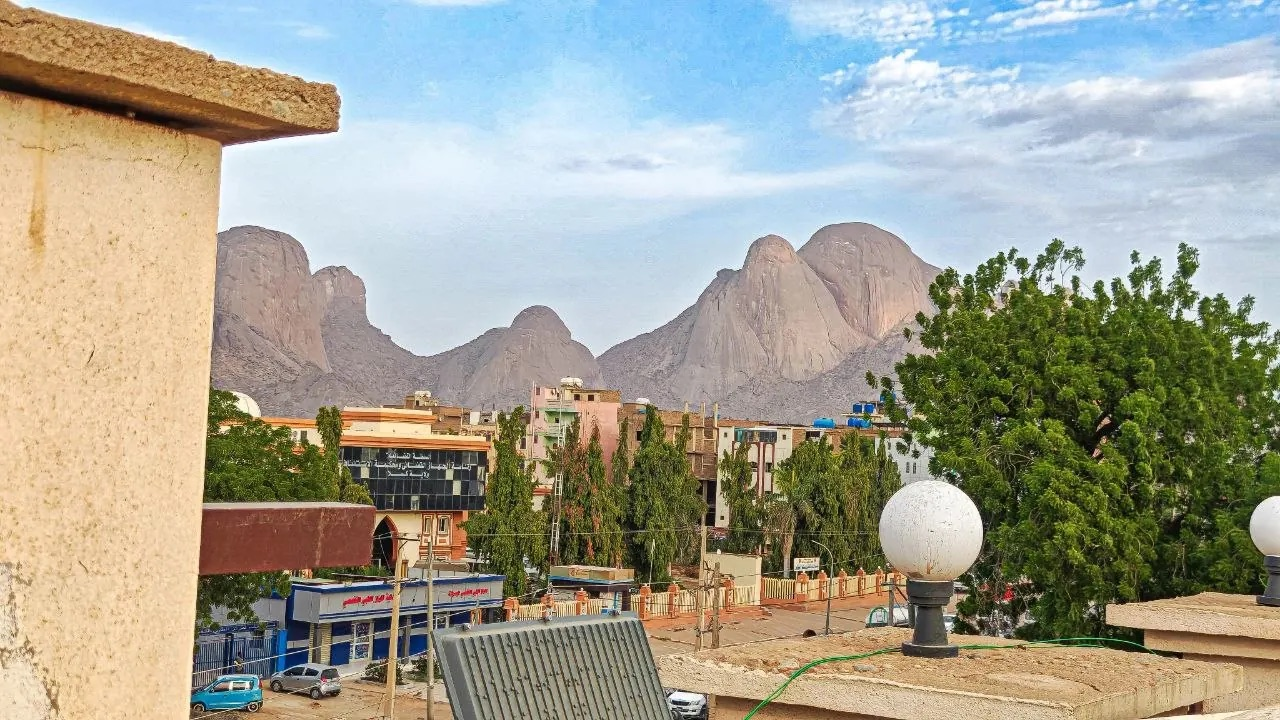
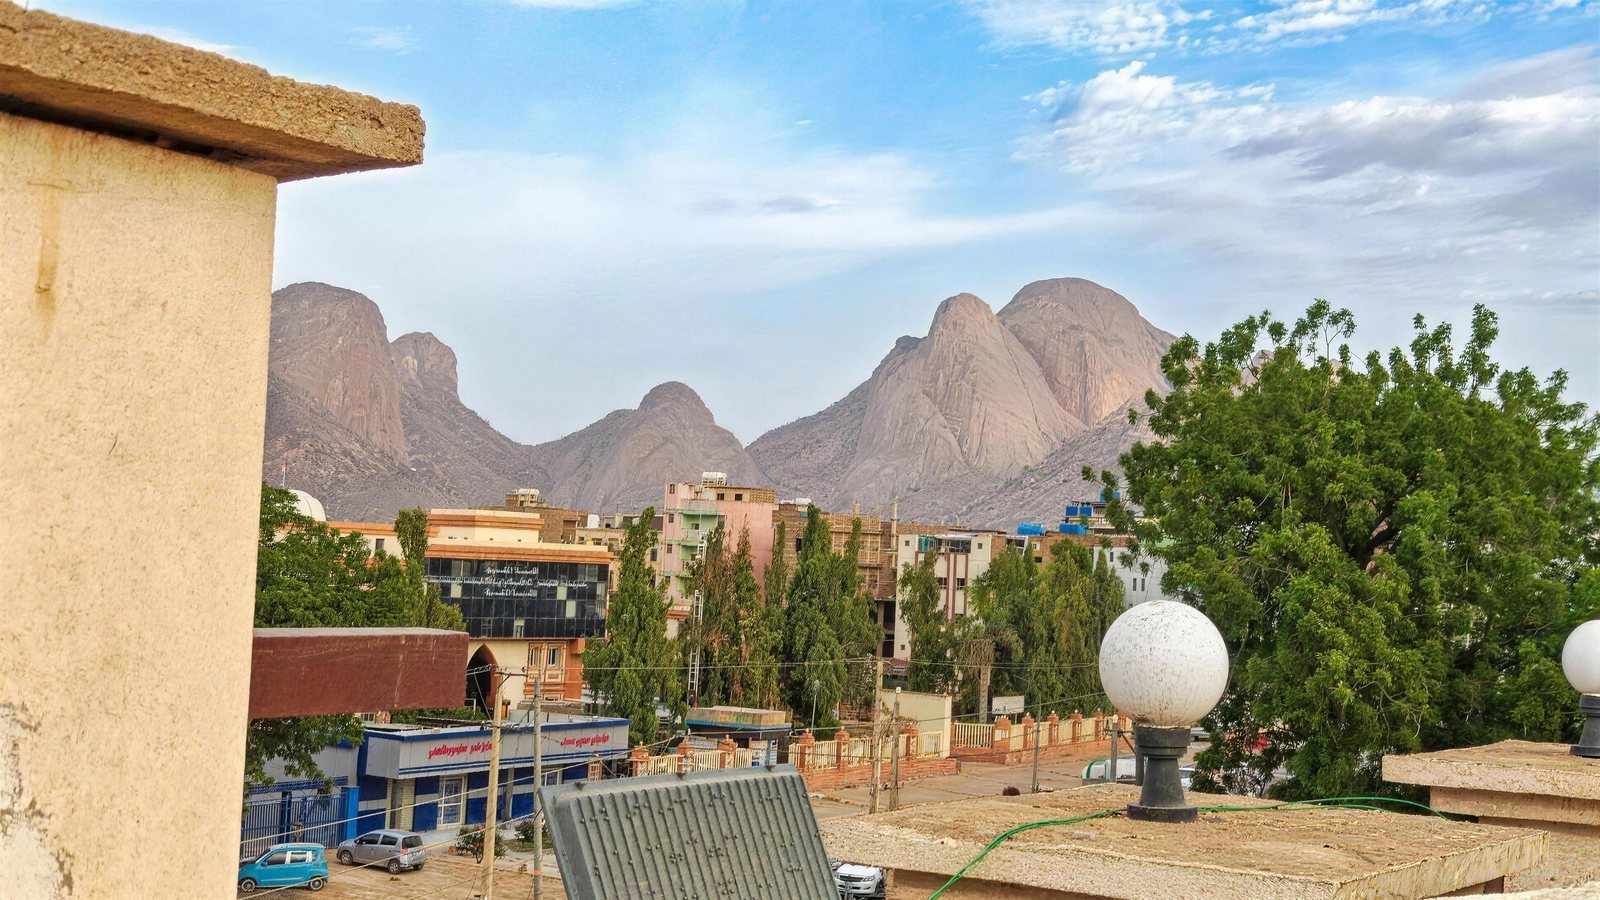
Upscale the hero so it stops rendering soft
The client reported the mountain image was still blurry. Measured: the source
was 1280x720 but the hero fills the viewport, so it was being stretched 2.25x
on a MacBook at 2x and 3.0x on a 27-inch display. No CSS fixes that -- the
pixels did not exist.

Ran the frame through an AI upscaler to 3840x2160 and opened the size ladder
up to match. Checked a 1:1 crop of the granite domes first: the upscale adds
real rock striation and ridge definition, and the silhouette is unchanged, so
it is not a different mountain.

Served resolution now meets or exceeds the slot on every device tested --
iPhone at 3x, MacBook at 2x, 27-inch at 2x. Mobile still receives the 1280
variant at 94KB; only large desktops pull the 621KB one.

Note this is generated detail, not recovered detail. Acceptable for a
landscape; do not apply it to rooms or people without asking.

diff --git a/next.config.ts b/next.config.ts
@@ -46,10 +46,12 @@ const nextConfig: NextConfig = {
     // AVIF first — it holds detail far better than WebP at the low bitrates
     // these 1280px client photos need, which is most of the sharpness win.
     formats: ["image/avif", "image/webp"],
-    // The source photography tops out at 1280px, so generating 1920/2048/3840
-    // variants only upscales. Capping the ladder here keeps every served file
-    // at or below native resolution.
-    deviceSizes: [360, 480, 640, 768, 960, 1080, 1280],
+    // The client photography tops out at 1280px, so most of this ladder stays
+    // low deliberately — asking for more only upscales. The hero is the
+    // exception: it is a 3840px master, and it is the one image that fills the
+    // viewport, so it needs the top rungs. Every other image carries an
+    // accurate `sizes`, so a 340px gallery cell never requests them.
+    deviceSizes: [360, 480, 640, 768, 960, 1080, 1280, 1600, 1920, 2560, 3840],
     imageSizes: [96, 128, 192, 256, 320, 384, 480, 640],
     // Next 16 rejects any quality not listed here (default is [75] only).
     // 88 is the site-wide value from <Photo>; 92 is the gallery lightbox.
